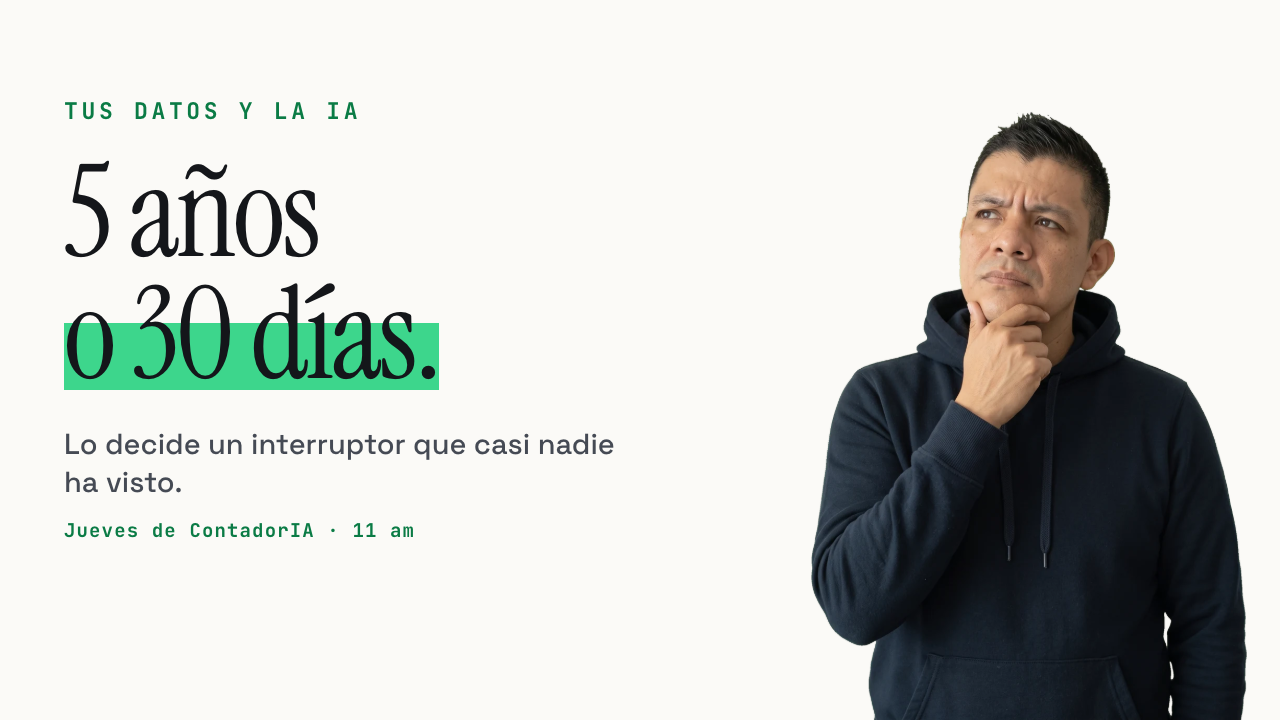
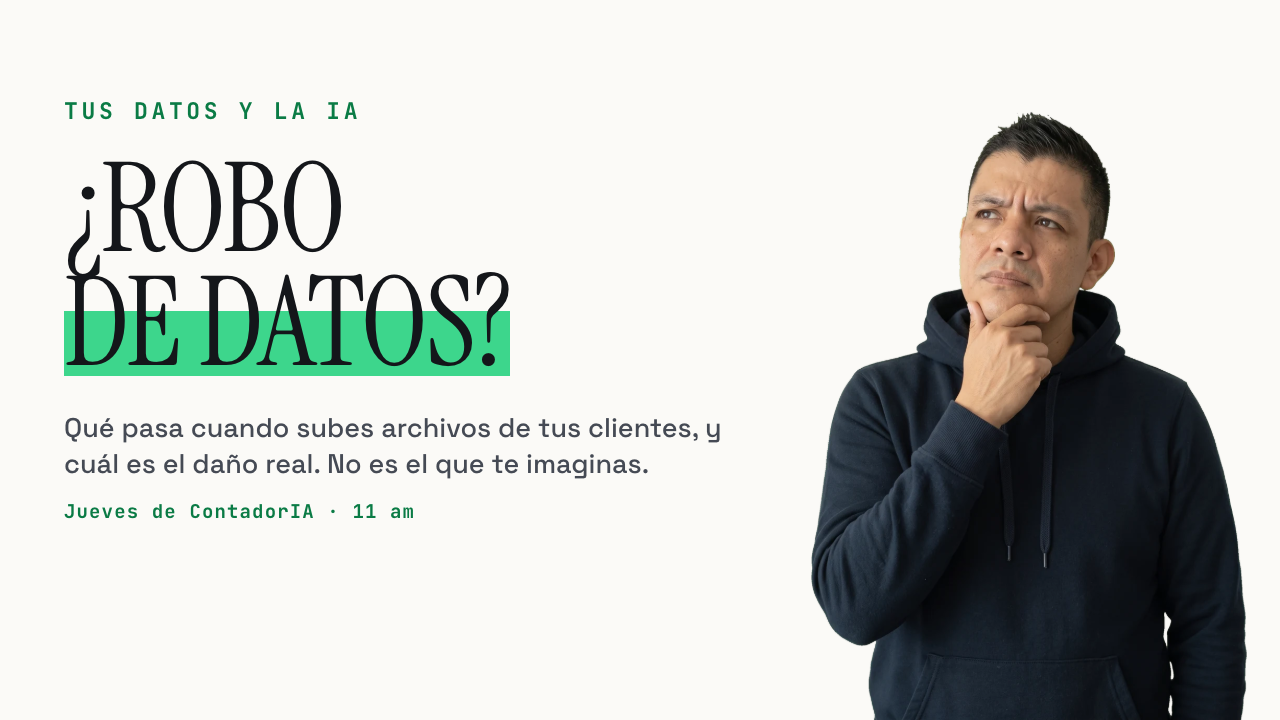
El gancho nombra el miedo, no la cifra
Cambio de Israel: "¿ROBO DE DATOS?" en vez de "5 años o 30 días", y el remate
acota qué se va a contestar.

Sigue sin repetir el título, que es la regla: el título dice de qué va el
video y la miniatura nombra el miedo que el video desarma. La cifra era más
precisa pero más fría; el miedo es lo que de verdad frena el clic.

Queda anotado en la plantilla por qué el signo de interrogación no es adorno:
es lo que separa esto de un anzuelo. El video contesta que no y le dedica una
sección entera ("lo que la gente teme no pasa así"). Si el gancho afirmara el
robo en vez de preguntarlo, prometería algo que el contenido no entrega.

Verificada otra vez a 210px: en caja alta el gancho se lee todavía mejor.

Changed region(s): [[0.0312, 0.2139, 0.4062, 0.55], [0.0312, 0.5806, 0.5625, 0.7639], [0.2812, 0.7028, 0.3438, 0.7639]]

diff --git a/design/og/miniatura-jueves-10.html b/design/og/miniatura-jueves-10.html
@@ -18,11 +18,16 @@
 
    ── Las dos reglas de miniatura que ya costaron ──
    1. EL GANCHO NO REPITE EL TÍTULO. El título dice de qué va ("¿Qué hace la
-      IA con tus datos?"); la miniatura da el dato que abre la curiosidad
-      (5 años o 30 días). Repetirlo desperdicia la mitad del espacio.
-   2. SE VERIFICA A 210px, que es como se ve en el feed. Por eso el gancho
-      son cifras enormes y solo dos renglones: lo que a tamaño completo
-      parece grande, a 210px desaparece.
+      IA con tus datos?"); la miniatura nombra el MIEDO que el video desarma.
+      Repetir el título desperdicia la mitad del espacio.
+
+      El signo de interrogación no es adorno: es lo que separa esto de un
+      anzuelo. El video contesta que no, y le dedica una sección entera ("lo
+      que la gente teme no pasa así"). Si el gancho AFIRMARA el robo en vez de
+      preguntarlo, prometería algo que el contenido no entrega.
+   2. SE VERIFICA A 210px, que es como se ve en el feed. Por eso el gancho va
+      en caja alta, enorme y en dos renglones: lo que a tamaño completo parece
+      grande, a 210px desaparece.
 
    Retrato: `israel-duda` (sudadera), que es el registro del Avatar A, a
    quien sirve YouTube. Es el mismo del carrusel de este tema.
@@ -76,7 +81,7 @@ body {
    escalado a 210px de ancho del feed. */
 .gancho {
   font-family: "Instrument Serif", serif; font-weight: 400;
-  font-size: 128px; line-height: 0.95; letter-spacing: -0.025em;
+  font-size: 124px; line-height: 0.92; letter-spacing: -0.02em;
 }
 .gancho b {
   font-weight: 400;
@@ -91,13 +96,13 @@ body {
   background-size: 100% 100%;
 }
 
-/* El remate: la frase que explica las cifras. A 210px no se lee, y está
+/* El remate: lo que acota la promesa del gancho. A 210px no se lee, y está
    bien: ahí ya hizo su trabajo el gancho. Sirve al que sí se detiene. */
 .remate {
   margin-top: 30px;
-  font-size: 29px; font-weight: 500; line-height: 1.3;
+  font-size: 27px; font-weight: 500; line-height: 1.32;
   color: var(--ink-soft);
-  max-width: 580px;
+  max-width: 660px;
 }
 .remate .marca-sitio {
   display: block; margin-top: 18px;
@@ -126,12 +131,13 @@ body {
     <!-- Cortes fijos: es una imagen de tamaño único, no hay nada que
          dejarle al flujo. -->
     <p class="gancho">
-      5 años<br>
-      <b>o 30 días.</b>
+      ¿ROBO<br>
+      <b>DE DATOS?</b>
     </p>
 
     <p class="remate">
-      Lo decide un interruptor que casi nadie ha visto.
+      Qué pasa cuando subes archivos de tus clientes, y cuál es el daño real.
+      No es el que te imaginas.
       <span class="marca-sitio">Jueves de ContadorIA · 11 am</span>
     </p>
   </div>
